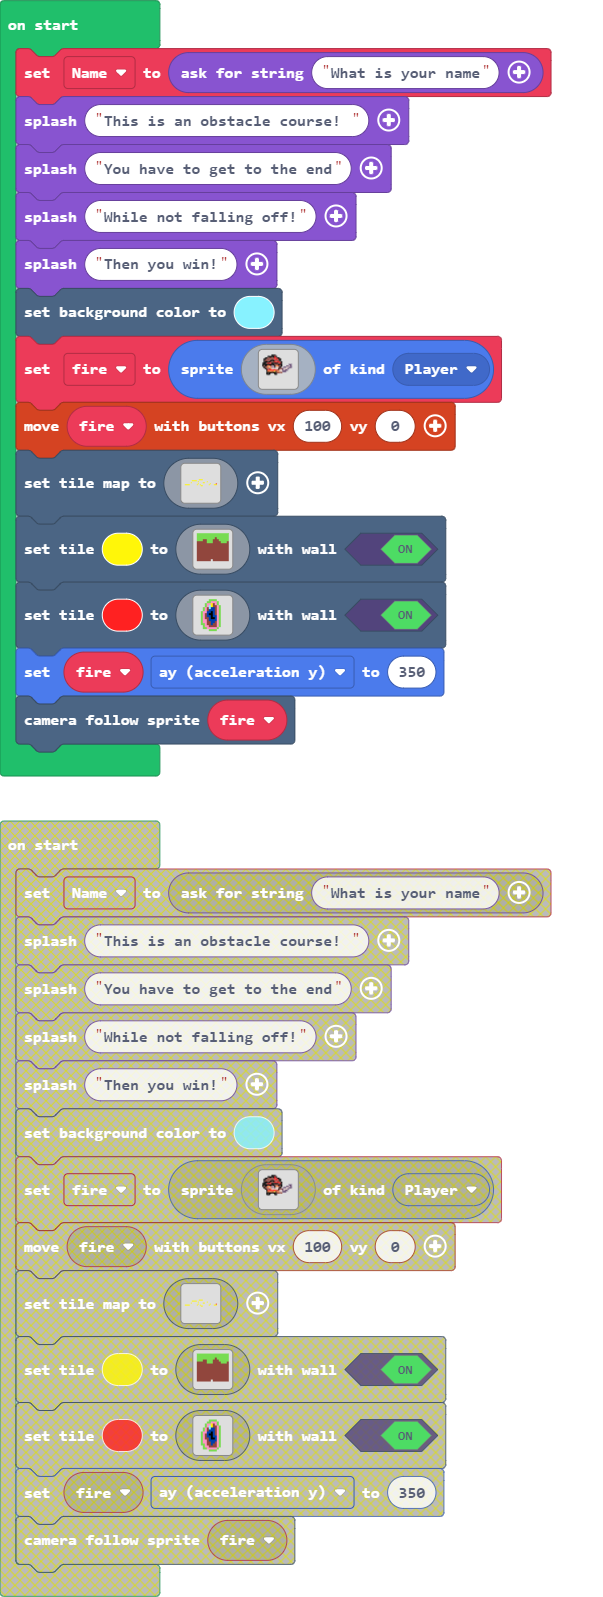
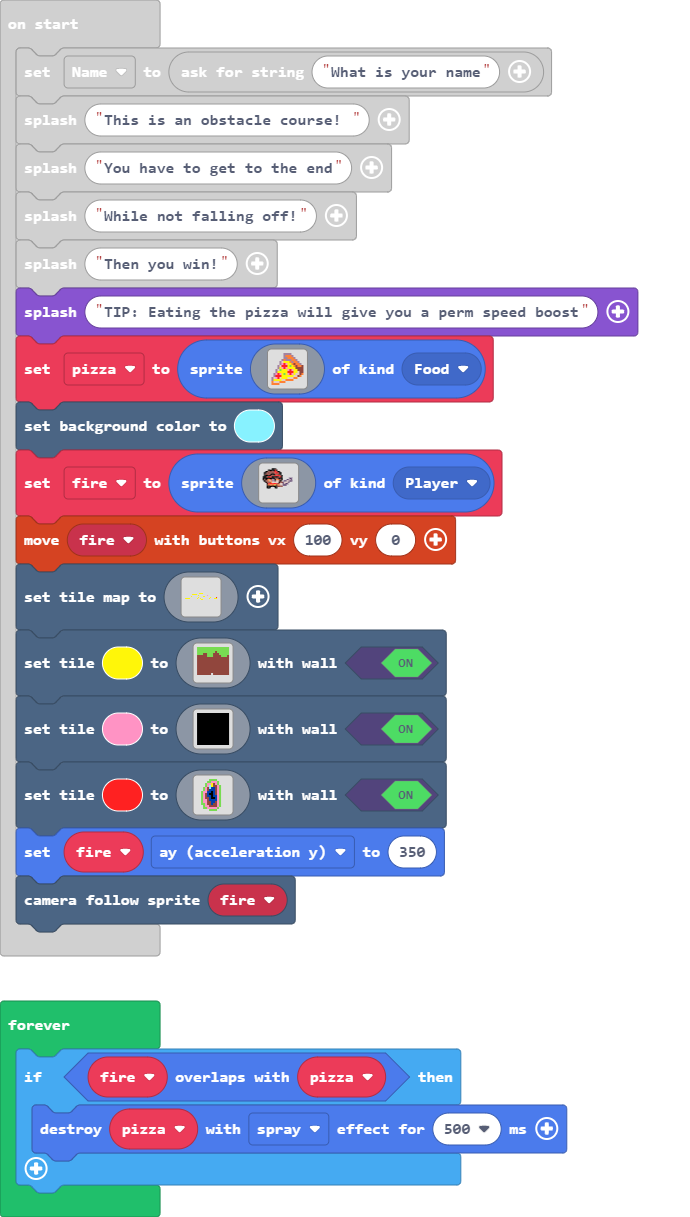
Update pxt.json, main.blocks, main.ts

diff --git a/main.ts b/main.ts
@@ -179,6 +179,25 @@ game.splash("This is an obstacle course! ")
 game.splash("You have to get to the end")
 game.splash("While not falling off!")
 game.splash("Then you win!")
+game.splash("TIP: Eating the pizza will give you a perm speed boost")
+let pizza = sprites.create(img`
+    . . . . . . b b b b . . . . . . 
+    . . . . . . b 4 4 4 b . . . . . 
+    . . . . . . b b 4 4 4 b . . . . 
+    . . . . . b 4 b b b 4 4 b . . . 
+    . . . . b d 5 5 5 4 b 4 4 b . . 
+    . . . . b 3 2 3 5 5 4 e 4 4 b . 
+    . . . b d 2 2 2 5 7 5 4 e 4 4 e 
+    . . . b 5 3 2 3 5 5 5 5 e e e e 
+    . . b d 7 5 5 5 3 2 3 5 5 e e e 
+    . . b 5 5 5 5 5 2 2 2 5 5 d e e 
+    . b 3 2 3 5 7 5 3 2 3 5 d d e 4 
+    . b 2 2 2 5 5 5 5 5 5 d d e 4 . 
+    b d 3 2 d 5 5 5 d d d 4 4 . . . 
+    b 5 5 5 5 d d 4 4 4 4 . . . . . 
+    4 d d d 4 4 4 . . . . . . . . . 
+    4 4 4 4 . . . . . . . . . . . . 
+    `, SpriteKind.Food)
 scene.setBackgroundColor(9)
 fire = sprites.create(img`
     ........................
@@ -210,7 +229,7 @@ controller.moveSprite(fire, 100, 0)
 scene.setTileMap(img`
     . . . . . . . . . . . . . . 5 5 5 5 . . . . . . . . . . . . . . 
     . . . . . . . 5 5 5 5 5 . . . . . . . . . . . . . . . . . . . . 
-    . . . . . . . . . . . . . 5 . . . . . . . . 5 . . . . . . . . . 
+    . . . . . . . . . . . . . 5 . . . . . . . . 3 . . . . . . . . . 
     . . . . . . 5 . . . . . . . . . . . 5 5 . . . . . . . . . . . . 
     . . . . . . . . . . . . . 5 . . . . . . . . . . . 5 . . . . . 2 
     5 5 5 5 5 . . . . . . . 5 . . 5 . . . . . . . . 5 . . . . 5 5 5 
@@ -235,6 +254,24 @@ scene.setTile(5, img`
     . . . . . . . . . . . . . . . . 
     . . . . . . . . . . . . . . . . 
     `, true)
+scene.setTile(3, img`
+    f f f f f f f f f f f f f f f f 
+    f f f f f f f f f f f f f f f f 
+    f f f f f f f f f f f f f f f f 
+    f f f f f f f f f f f f f f f f 
+    f f f f f f f f f f f f f f f f 
+    f f f f f f f f f f f f f f f f 
+    f f f f f f f f f f f f f f f f 
+    f f f f f f f f f f f f f f f f 
+    f f f f f f f f f f f f f f f f 
+    f f f f f f f f f f f f f f f f 
+    f f f f f f f f f f f f f f f f 
+    f f f f f f f f f f f f f f f f 
+    f f f f f f f f f f f f f f f f 
+    f f f f f f f f f f f f f f f f 
+    f f f f f f f f f f f f f f f f 
+    f f f f f f f f f f f f f f f f 
+    `, true)
 scene.setTile(2, img`
     . . . . . . 7 7 7 7 . . . . . . 
     . . . . . 7 7 3 3 3 7 . . . . . 
@@ -258,5 +295,10 @@ scene.cameraFollowSprite(fire)
 game.onUpdate(function () {
     if (fire.y >= scene.screenHeight()) {
         game.over(false)
+    }
+})
+forever(function () {
+    if (fire.overlapsWith(pizza)) {
+        pizza.destroy(effects.spray, 500)
     }
 })
